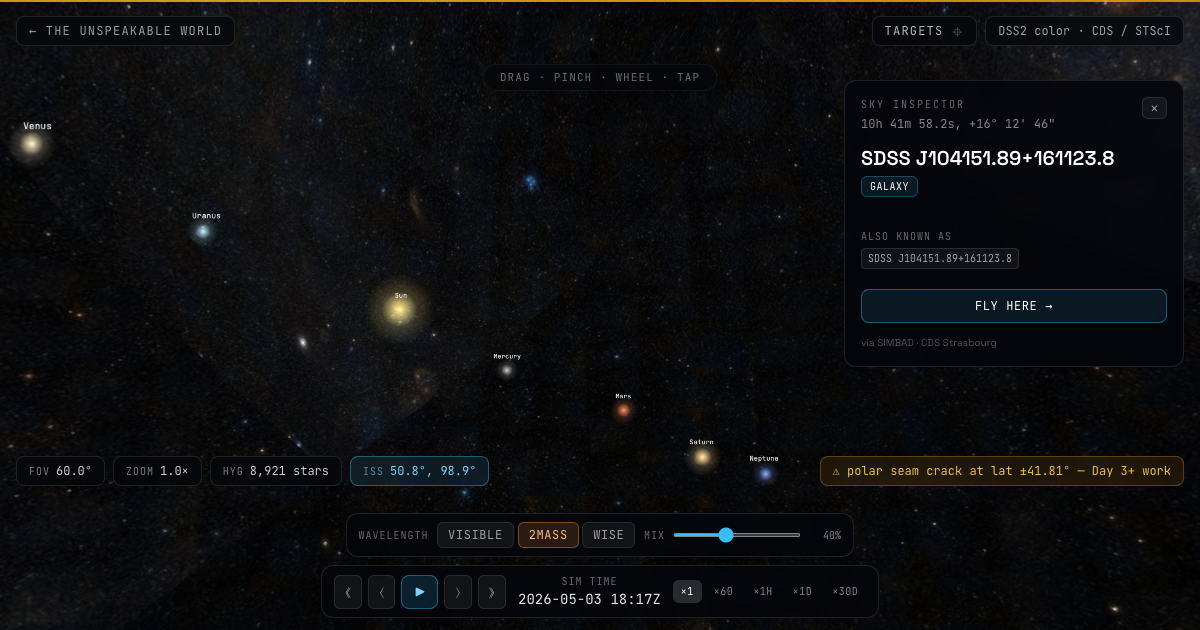
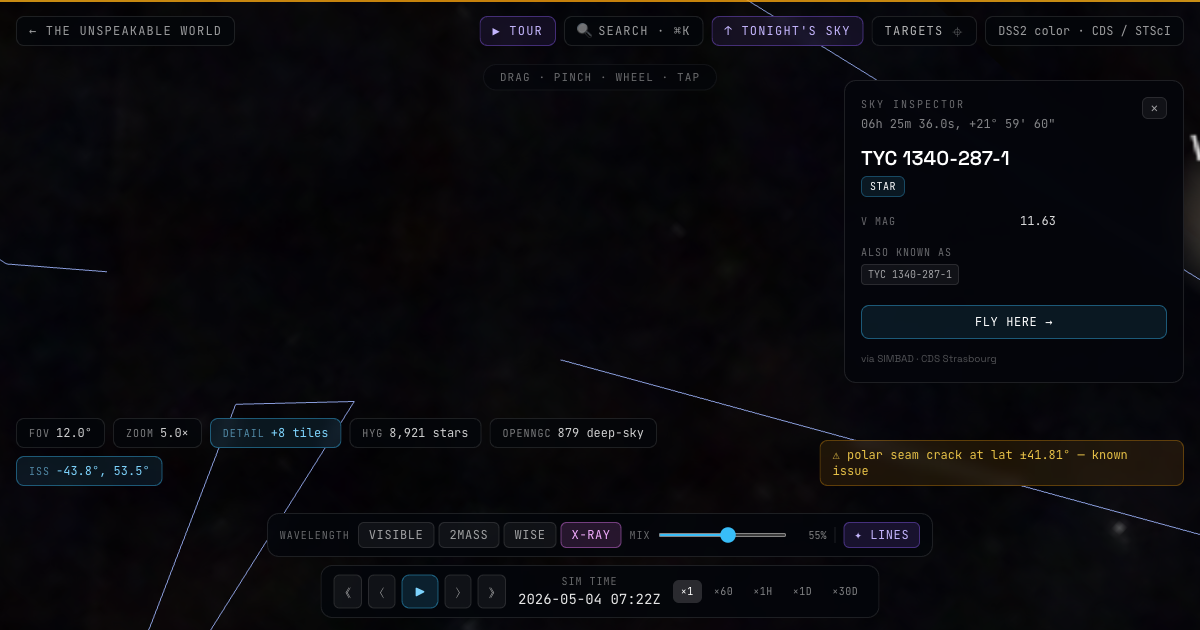
chore(launch): Day 20 — v2 ship
Twenty days, twenty commits, all in public on main.

Landing:
- Hero badge: "Day 20 · v2 live in your browser"
- Subtitle catalogs 4 wavelengths, 8,921 stars, 879 deep-sky, 88
  constellations, search, tonight's sky, Grand Tour, Wikipedia, URLs
- Counters now: 8,921 stars / 879 DSOs / 4 wavelengths / MIT
- Roadmap: every Day 8-19 entry marked ✓ Shipped with detail line,
  Day 20 = ● Now

OG card re-shot at 1200×630 with X-ray + constellation lines + SIMBAD
inspector — every headline feature in one frame.

README:
- Feature list rewritten for v2 reality
- Build-in-public commit table extended Day 7 → Day 20

Plus 2 new screenshots: 04-constellations, 05-andromeda-2mass.

diff --git a/apps/web/src/landing/Roadmap.tsx b/apps/web/src/landing/Roadmap.tsx
@@ -42,38 +42,101 @@ const PHASES: Phase[] = [
   },
   {
     day: "Day 7",
-    title: "Public launch",
+    title: "Public launch (v1)",
     detail:
-      "You are here. Show HN · Reddit r/space · Product Hunt · Twitter devlog. Now go open the viewer.",
+      "Show HN, Reddit, Product Hunt — first public sharing of the OSS viewer.",
+    status: "shipped",
+  },
+  {
+    day: "Day 8",
+    title: "Tonight's sky",
+    detail:
+      'Geolocation-gated "↑ tonight\'s sky" button computes your local zenith via IAU GMST and flies the camera straight up — coordinates stay on-device.',
+    status: "shipped",
+  },
+  {
+    day: "Day 9",
+    title: "Polar seam tightened",
+    detail:
+      "Bumped tile subdivision SUB=16→32. The wide diagonal cracks at lat ±41.81° collapse to thin lines.",
+    status: "shipped",
+  },
+  {
+    day: "Day 10",
+    title: "Deep-sky overlay",
+    detail:
+      "879 Messier + bright NGC/IC objects from OpenNGC — type-coded ring markers (galaxy / cluster / nebula).",
+    status: "shipped",
+  },
+  {
+    day: "Day 11",
+    title: "Constellation lines",
+    detail:
+      "All 88 IAU constellations from d3-celestial — toggle with ✦ LINES.",
+    status: "shipped",
+  },
+  {
+    day: "Day 12",
+    title: "X-ray wavelength",
+    detail:
+      "INTEGRAL hard X-ray (20-100 keV color) joins DSS2 / 2MASS / WISE in the wavelength toggle. Visible → mid-IR → X-ray cross-fade.",
+    status: "shipped",
+  },
+  {
+    day: "Day 13",
+    title: "Search bar",
+    detail:
+      "⌘K opens search across stars, deep-sky objects, planets, constellations — fly to any of them.",
+    status: "shipped",
+  },
+  {
+    day: "Day 14",
+    title: "Mobile UX",
+    detail:
+      "Top bar collapses to icons on phones; engineering chrome hidden on small screens.",
+    status: "shipped",
+  },
+  {
+    day: "Day 15",
+    title: "Grand Tour",
+    detail:
+      "8-step guided walkthrough: Sun → Andromeda → Pleiades → Orion → Sgr A* → Crab → LMC → Jupiter, each with the right wavelength.",
+    status: "shipped",
+  },
+  {
+    day: "Day 16",
+    title: "Shareable URLs",
+    detail:
+      "Every camera state, FOV, time, overlay + mix, and toggles round-trip via the URL hash. Copy-paste any view.",
+    status: "shipped",
+  },
+  {
+    day: "Day 17",
+    title: "Wikipedia inspector",
+    detail:
+      "Click the sky → SIMBAD identifies the object + Wikipedia article excerpt + thumbnail in the side panel.",
+    status: "shipped",
+  },
+  {
+    day: "Day 18",
+    title: "Famous-name aliases",
+    detail:
+      'Type "Crab" or "Pleiades" — search and Wikipedia lookups now bridge SIMBAD codes to common names.',
+    status: "shipped",
+  },
+  {
+    day: "Day 19",
+    title: "Constellation labels",
+    detail:
+      "88 three-letter IAU codes overlay the sky at each constellation centroid when ✦ LINES is on.",
+    status: "shipped",
+  },
+  {
+    day: "Day 20",
+    title: "v2 ship",
+    detail:
+      "You are here. Refreshed README, updated OG card, new screenshots, fresh hello on socials.",
     status: "now",
-  },
-  {
-    day: "Day 8-9",
-    title: "Tonight's sky + seam fix",
-    detail:
-      "DeviceOrientation + geolocation gyro mode · proper polar Collignon seam handling at lat ±41.81°",
-    status: "next",
-  },
-  {
-    day: "Day 10-12",
-    title: "Deeper sky",
-    detail:
-      "Messier + NGC overlay · constellation lines · more wavelengths (Chandra X-ray, Planck CMB, H-alpha)",
-    status: "soon",
-  },
-  {
-    day: "Day 13-15",
-    title: "Speed + tours",
-    detail:
-      "Local SIMBAD mirror so panels resolve in <100ms · mobile tier polish · scripted camera tours through the catalog",
-    status: "soon",
-  },
-  {
-    day: "Day 16-20",
-    title: "Search + AI + v2",
-    detail:
-      'Search bar with named-star autocomplete · satellite swarm beyond ISS · grounded "what am I looking at" AI copilot',
-    status: "soon",
   },
 ];
 
@@ -97,7 +160,7 @@ export function Roadmap() {
       <div className="mb-10 flex flex-col items-start justify-between gap-3 md:flex-row md:items-end">
         <div>
           <h2 className="font-display text-3xl font-semibold md:text-4xl">
-            6 days shipped.{" "}
+            19 days shipped.{" "}
             <span className="text-white/40">Building in public.</span>
           </h2>
           <p className="mt-2 text-sm text-white/50">

diff --git a/apps/web/src/landing/Hero.tsx b/apps/web/src/landing/Hero.tsx
@@ -3,8 +3,8 @@ import { navigate } from "../router";
 
 const COUNTERS = [
   { value: "8,921", label: "bright stars" },
-  { value: "3", label: "wavelengths live" },
-  { value: "γ → radio", label: "roadmap" },
+  { value: "879", label: "deep-sky objects" },
+  { value: "4", label: "wavelengths" },
   { value: "MIT", label: "forever free" },
 ];
 
@@ -13,7 +13,7 @@ export function Hero() {
     <section className="mx-auto flex w-full max-w-5xl flex-col items-center px-6 pb-16 pt-24 text-center md:pt-36">
       <div className="mb-6 inline-flex items-center gap-2 rounded-full border border-white/10 bg-white/5 px-3 py-1 text-xs uppercase tracking-[0.2em] text-plasma-400/90 backdrop-blur">
         <span className="h-1.5 w-1.5 animate-pulse rounded-full bg-plasma-500" />
-        <span>Day 7 · live in your browser</span>
+        <span>Day 20 · v2 live in your browser</span>
       </div>
 
       <h1 className="text-balance font-display text-5xl font-semibold leading-[1.05] glow md:text-7xl">
@@ -56,9 +56,10 @@ export function Hero() {
       </div>
 
       <p className="mt-3 max-w-xl text-xs text-white/50">
-        Real DSS2 / 2MASS / WISE sky tiles streaming from CDS Strasbourg · 8,921
-        bright stars · Sun + planets via AstronomyEngine · live ISS · click any
-        sky to ask SIMBAD what's there.
+        DSS2 · 2MASS · WISE · INTEGRAL X-ray sky tiles streaming from CDS & ESA
+        · 8,921 bright stars · 879 deep-sky objects · 88 constellations · Sun +
+        planets · live ISS · search · tonight's sky · 8-step Grand Tour · SIMBAD
+        + Wikipedia inspector · shareable URLs.
       </p>
 
       <EmailCapture />

diff --git a/README.md b/README.md
@@ -14,24 +14,27 @@
 
 **Drag the sky.** Pinch / wheel to zoom. Tap any region to fly there. The viewer streams real DSS2 sky tiles from CDS Strasbourg onto a 3D Three.js sphere — when you zoom in, higher-order Norder 1+ tiles fetch into the camera frustum.
 
-**Cross-fade wavelengths.** Visible (DSS2) ↔ near-IR (2MASS) ↔ mid-IR (AllWISE). Slide the mix between any two wavelengths and watch the sky transform — galactic dust appears, hot dust glows red, stars resolve differently.
+**Cross-fade wavelengths.** Visible (DSS2) ↔ near-IR (2MASS) ↔ mid-IR (AllWISE) ↔ X-ray (INTEGRAL). Slide the mix between two layers and watch the sky transform — galactic dust appears, hot dust glows red, X-ray binaries flare into view.
 
-**Click anything → ask SIMBAD.** Tap a region on the sky and the inspector resolves the closest known object via CDS's open SIMBAD endpoint: name, type, V magnitude, spectral class, redshift. "Fly here →" re-applies the camera path.
+**Click anything → ask SIMBAD + Wikipedia.** Tap a region on the sky and the inspector resolves the closest known object via CDS's open SIMBAD endpoint, then chains to Wikipedia for the article extract + thumbnail when one exists.
 
-**Live ISS.** Polls `wheretheiss.at` every 4 s. Click "ISS" in the targets menu and the camera flies to wherever the station is right now.
+**Search anything.** ⌘K opens search across 314 named stars, 879 deep-sky objects (Messier + NGC/IC + common-name aliases like "Crab Nebula" or "Pleiades"), 9 solar bodies, and the 88 IAU constellations. Click any result to fly there.
+
+**Take the Grand Tour.** Click ▶ TOUR for an 8-step guided walkthrough — Sun, Andromeda, Pleiades, Orion Nebula, Galactic Center, Crab Nebula, Large Magellanic Cloud, Jupiter — each automatically switching to the wavelength that tells the best story.
+
+**Tonight's sky from your location.** ↑ TONIGHT'S SKY uses geolocation (button-gated) + IAU sidereal-time math to fly the camera straight up from where you are right now. Your coordinates never leave your device.
 
 **Real solar system.** Sun, Moon, and 8 planets via [AstronomyEngine](https://github.com/cosinekitty/astronomy). Time slider scrubs ±days, with ×60 / ×1h / ×1d / ×30d speeds — watch Mars cross the sky, watch the Moon track its phase.
 
-**8,921 bright stars.** HYG v4.0 filtered to apparent magnitude ≤ 6.5 (naked-eye limit), packed into a 139 KB binary, GPU-instanced with B-V → RGB color and magnitude → screen-pixel size.
+**Live ISS.** Polls `wheretheiss.at` every 4 s. Click "ISS" in the targets menu and the camera flies to wherever the station is right now.
+
+**88 constellations + labels.** Toggle ✦ LINES for the IAU constellation lines from d3-celestial, with the 3-letter code at every centroid.
+
+**8,921 bright stars + 879 deep-sky objects.** HYG v4.0 stars (CC BY-SA, 139 KB packed binary) GPU-instanced with B-V → RGB color, plus OpenNGC's bright filtered subset as type-coded ring markers (galaxy / cluster / nebula).
+
+**Shareable URLs.** Every camera state, FOV, time, overlay + mix, and constellation toggle round-trips via the URL hash — copy-paste any view to share exactly what you see.
 
 ---
-
-## What's coming
-
-| Days 8-9 | Tonight's sky (DeviceOrientation gyro + geolocation) · polar Collignon seam fix |
-| Days 10-12 | Messier + NGC catalog · constellation lines · Chandra X-ray + Planck CMB + Hα |
-| Days 13-15 | Local SIMBAD mirror · mobile UX polish · scripted camera tours |
-| Days 16-20 | Search bar · satellite swarm · grounded "what am I looking at" AI copilot |
 
 The full plan lives in [`tasks/todo.md`](./tasks/todo.md). Every commit lands on `main` and pushes here. **No private branches, no stealth — every dragon is a public issue.**
 
@@ -118,16 +121,29 @@ tasks/
 
 ## Build in public — daily commits
 
-| Day | Commit  | What shipped                                                     |
-| --- | ------- | ---------------------------------------------------------------- |
-| 1   | a03d0e2 | Bootstrap monorepo + landing page + tunnel                       |
-| 2   | 82e8eb2 | HEALPix toy + DSS2 streaming + Voyager camera                    |
-| 3   | 83b5439 | LOD switching + touch + inertia + chips + tap-to-fly             |
-| 4   | c3177f5 | HYG bright stars + AstronomyEngine + time strip                  |
-| 5   | 5234e10 | Multi-pointer + Y-up coords + ISS tracker + Quick Targets        |
-| 6.A | a6fa461 | Multi-wavelength toggle (Visible / 2MASS / WISE) with cross-fade |
-| 6.B | 3ad41d3 | SIMBAD info panel — click sky, ask "what am I looking at"        |
-| 7   | (this)  | v1 launch · README · OG card · public landing                    |
+| Day | Commit  | What shipped                                                              |
+| --- | ------- | ------------------------------------------------------------------------- |
+| 1   | a03d0e2 | Bootstrap monorepo + landing page + Cloudflare tunnel                     |
+| 2   | 82e8eb2 | HEALPix toy + DSS2 streaming + Voyager camera                             |
+| 3   | 83b5439 | LOD switching + touch + inertia + chips + tap-to-fly                      |
+| 4   | c3177f5 | HYG bright stars + AstronomyEngine + time strip                           |
+| 5   | 5234e10 | Multi-pointer + Y-up coords + ISS tracker + Quick Targets                 |
+| 6.A | a6fa461 | Multi-wavelength toggle (Visible / 2MASS / WISE) with cross-fade          |
+| 6.B | 3ad41d3 | SIMBAD info panel — click sky, ask "what am I looking at"                 |
+| 7   | 777de83 | v1 public launch · README · OG card · landing polish                      |
+| 8   | 9d6c7f6 | Tonight's sky — geolocation → fly to your zenith                          |
+| 9   | 2bafb13 | Polar Collignon seam tightened (SUB 16→32)                                |
+| 10  | 934cfae | Messier + bright NGC overlay (879 deep-sky rings)                         |
+| 11  | 240fe83 | 88 IAU constellation lines (toggleable)                                   |
+| 12  | 28f8307 | INTEGRAL hard X-ray as 4th wavelength layer                               |
+| 13  | 7602ed4 | Top-bar search across stars / DSO / planets / constellations              |
+| 14  | bd9511a | Mobile UX — top bar collapses to icons; engineering chrome hides          |
+| 15  | 2cea894 | Grand Tour — 8-step guided sky walkthrough with auto-wavelength           |
+| 16  | 3c4b052 | URL deep-linking — every view is a shareable hash                         |
+| 17  | e8c1b4c | Wikipedia summary in the SIMBAD inspector                                 |
+| 18  | f1d0f27 | Famous-object alias map ("Crab" → M1, "Pleiades" → M45)                   |
+| 19  | 56eebf0 | 88 constellation labels at line centroids                                 |
+| 20  | (this)  | v2 ship — refreshed README · OG card · landing roadmap update             |
 
 ---
 